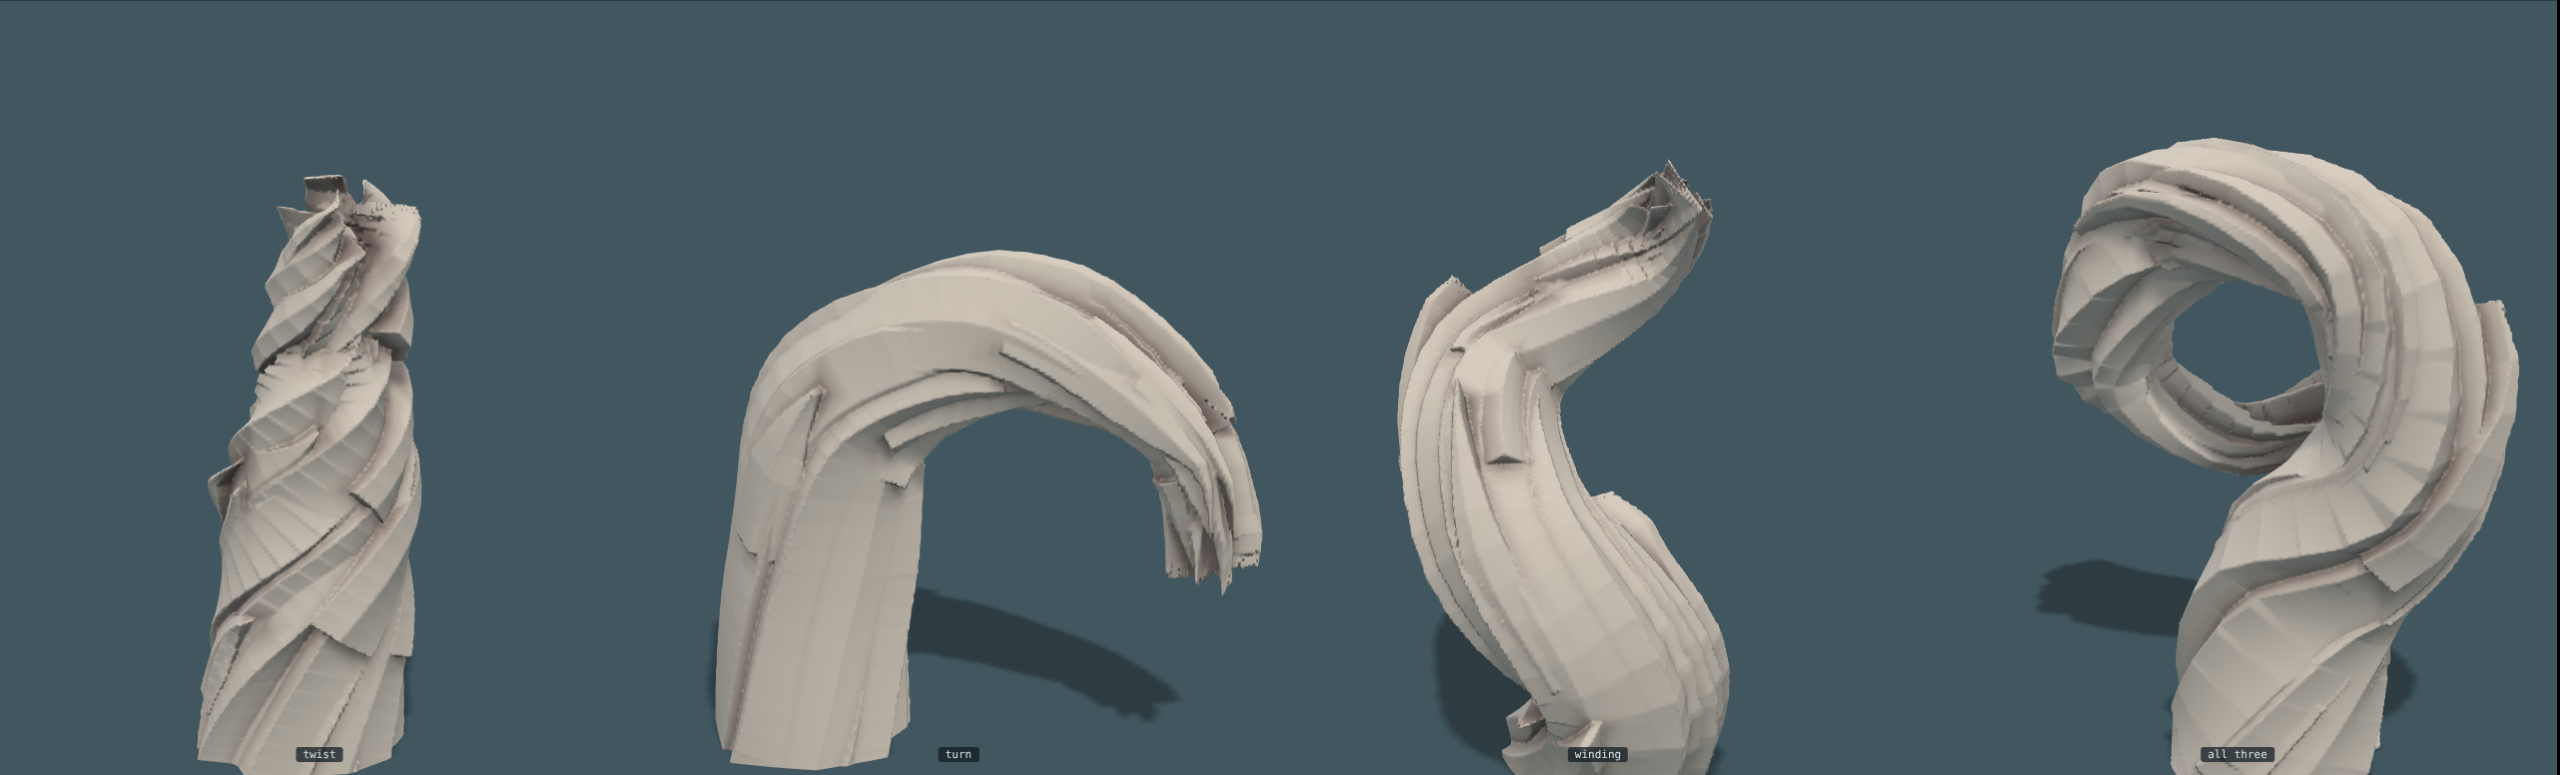
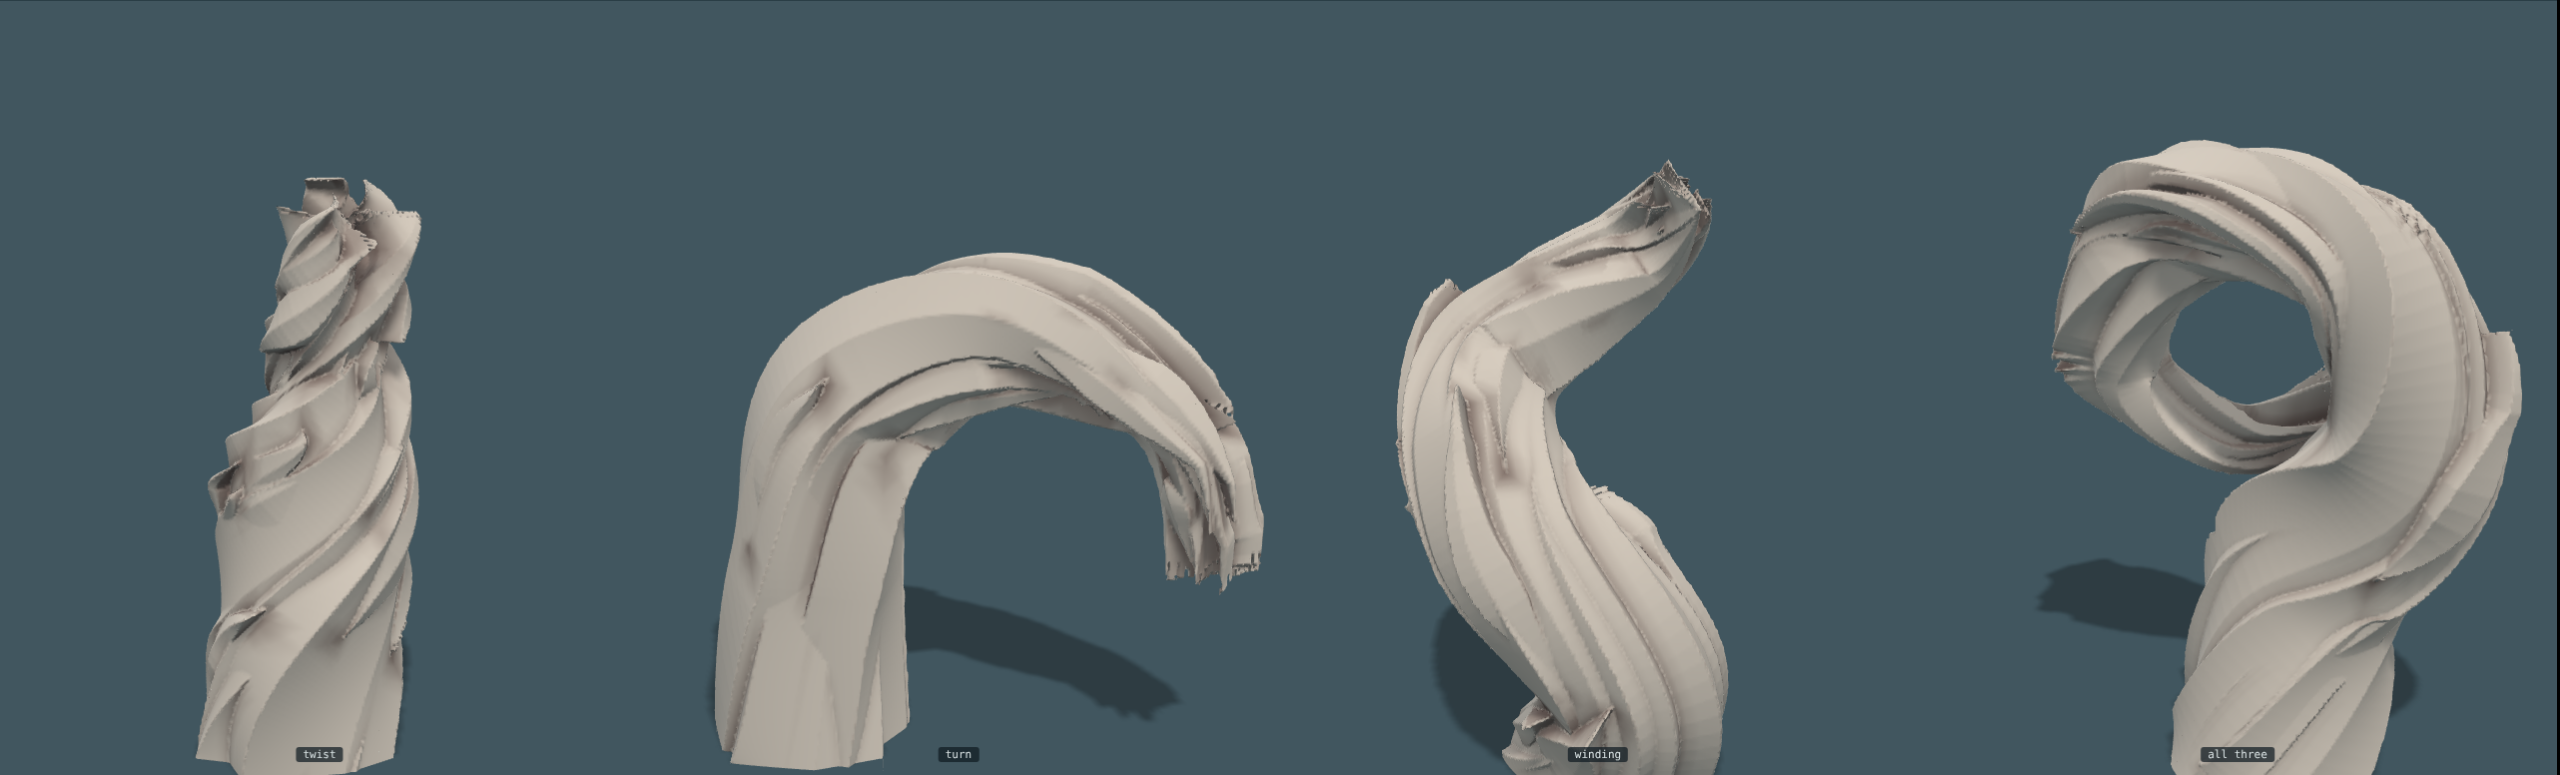
Sketchbook page 5: no visible cross-segments; give over long stretches
Claude-Session: https://claude.ai/code/session_0192rgp75jGkttZXf7hEakip

diff --git a/sketch/page5.js b/sketch/page5.js
@@ -24,10 +24,20 @@
     for (let i = 1; i < n; i++) L.push(L[i - 1] + H(K.C[i][0] - K.C[i - 1][0], K.C[i][1] - K.C[i - 1][1], K.C[i][2] - K.C[i - 1][2]));
     const lo = [9, 9, 9], hi = [-9, -9, -9]; K.C.forEach((c, i) => { const m = K.W[i] + K.Hh[i] + K.deep; for (let k = 0; k < 3; k++) { lo[k] = Math.min(lo[k], c[k] - m); hi[k] = Math.max(hi[k], c[k] + m); } });
     const f = (x, y, z) => {
+      // the nearest stretch of its line: found roughly first, then exactly near there
+      let near = 0, nd = 1e9; for (let i = 0; i < n; i += 6) { const c = K.C[i], q = (x - c[0]) ** 2 + (y - c[1]) ** 2 + (z - c[2]) ** 2; if (q < nd) { nd = q; near = i; } }
       let bd = 1e9, bi = 0, bt = 0;
-      for (let i = 0; i < n - 1; i++) { const a = K.C[i], b = K.C[i + 1], ax = b[0] - a[0], ay = b[1] - a[1], az = b[2] - a[2], t = clamp(((x - a[0]) * ax + (y - a[1]) * ay + (z - a[2]) * az) / (ax * ax + ay * ay + az * az), 0, 1), dx = x - a[0] - ax * t, dy = y - a[1] - ay * t, dz = z - a[2] - az * t, d2 = dx * dx + dy * dy + dz * dz; if (d2 < bd) { bd = d2; bi = i; bt = t; } }
-      const a = K.C[bi], b = K.C[bi + 1], T = unit(mix(Tv[bi], Tv[bi + 1], bt)), side = unit(cross(T, mix(K.O[bi], K.O[bi + 1], bt))), o = cross(side, T), d3 = [x - lerp(a[0], b[0], bt), y - lerp(a[1], b[1], bt), z - lerp(a[2], b[2], bt)];
-      const pre = (bi === 0 && bt === 0) || (bi === n - 2 && bt === 1) ? dot(d3, T) : 0, u = dot(d3, side), v = dot(d3, o), w = lerp(K.W[bi], K.W[bi + 1], bt), h = lerp(K.Hh[bi], K.Hh[bi + 1], bt), s = lerp(L[bi], L[bi + 1], bt) + pre;
+      for (let i = Math.max(0, near - 7); i < Math.min(n - 1, near + 7); i++) { const a = K.C[i], b = K.C[i + 1], ax = b[0] - a[0], ay = b[1] - a[1], az = b[2] - a[2], t = clamp(((x - a[0]) * ax + (y - a[1]) * ay + (z - a[2]) * az) / (ax * ax + ay * ay + az * az), 0, 1), dx = x - a[0] - ax * t, dy = y - a[1] - ay * t, dz = z - a[2] - az * t, d2 = dx * dx + dy * dy + dz * dz; if (d2 < bd) { bd = d2; bi = i; bt = t; } }
+      // then settle on the place along the line where the way to this point is square to the line's own
+      // direction there. Without this the place moves in straight steps while the facing turns smoothly, and
+      // every face comes out ribbed across the grain.
+      let at = bi + bt, T = Tv[0], c = K.C[0];
+      for (let pass = 0; pass < 4; pass++) { const i = clamp(Math.floor(at), 0, n - 2), g = at - i; c = mix(K.C[i], K.C[i + 1], g); T = unit(mix(Tv[i], Tv[i + 1], g)); if (pass < 3) at = clamp(at + ((x - c[0]) * T[0] + (y - c[1]) * T[1] + (z - c[2]) * T[2]) / (L[i + 1] - L[i]), 0, n - 1); }
+      // if that has wandered off (it can, on the inside of a tight bend), go back to the rough answer
+      if ((x - c[0]) ** 2 + (y - c[1]) ** 2 + (z - c[2]) ** 2 > (Math.sqrt(bd) + 0.03) ** 2) { at = bi + bt; c = mix(K.C[bi], K.C[bi + 1], bt); T = unit(mix(Tv[bi], Tv[bi + 1], bt)); }
+      bi = clamp(Math.floor(at), 0, n - 2); bt = at - bi;
+      const side = unit(cross(T, mix(K.O[bi], K.O[bi + 1], bt))), o = cross(side, T), d3 = [x - c[0], y - c[1], z - c[2]];
+      const pre = at <= 0 || at >= n - 1 ? dot(d3, T) : 0, u = dot(d3, side), v = dot(d3, o), w = lerp(K.W[bi], K.W[bi + 1], bt), h = lerp(K.Hh[bi], K.Hh[bi + 1], bt), s = lerp(L[bi], L[bi + 1], bt) + pre;
       const xm = K.ridge * w, yl = h * K.eL, yr = h * K.eR, lx = -(h - yl), ly = xm + w, rx = h - yr, ry = w - xm;
       // inside all of: the two faces of the roof, the two side walls, a floor well below, and the two ends
       return Math.max(((u + w) * lx + (v - yl) * ly) / H(lx, ly), ((u - xm) * rx + (v - h) * ry) / H(rx, ry), -u - w, u - w, -v - K.deep, -s, s - L[n - 1] + K.skew * u);
@@ -37,14 +47,15 @@
   // wood round a guide line that carries a girth. Two layers of shards on a hidden core: wide ones that give
   // the piece its bulk, and narrower, shorter ones lying on them.
   function wood(guide, o) {
-    const M = 72, G = through(guide, M), frames = [], r = rng(o.seed || 1), r2 = rng((o.seed || 1) + 100), give = o.give === undefined ? 1 : o.give; let N = null;
+    const M = 216, G = through(guide, M), frames = [], r = rng(o.seed || 1), r2 = rng((o.seed || 1) + 100), give = o.give === undefined ? 1 : o.give; let N = null;
     for (let i = 0; i <= M; i++) { const T = unit([0, 1, 2].map((k) => G[Math.min(M, i + 1)][k] - G[Math.max(0, i - 1)][k])); N = unit((N || [1, 0, 0.2]).map((v, k, A) => v - T[k] * dot(A, T))); frames.push([T, N, cross(T, N)]); }
     const all = [];
     const lay = (i0, i1, th0, rho, wide, high, lift, point, stiff, P) => {
+      const fine = (q) => Math.min(1, (1 - q) / point, i0 ? q / 0.3 : 1);
       const C = [], O = [], W = [], Hh = [], n = i1 - i0; let run = 0, straight = null, T0 = null;
-      // a band is held at its ends and has give between them: it draws in or spreads a little, drifts a little
-      // to one side, and sinks a little, more than once along a long one. Slight, and never the same twice.
-      const waves = Math.max(1, Math.round(n / 24)), skew = 0.75 + 0.6 * r2(), draw = 0.14 * (r2() * 2 - 1) * give, drift = 0.16 * (r2() * 2 - 1) * give, sink = 0.12 * r2() * give;
+      // a band is held in a few places far apart and has give between them: it draws in or spreads, drifts to
+      // one side, and sinks. Nothing marks where it is held; the give is the only sign of it.
+      const waves = Math.max(1, Math.round(n / 110)), skew = 0.75 + 0.6 * r2(), sign = () => (r2() < 0.5 ? -1 : 1) * (0.5 + 0.5 * r2()), draw = 0.3 * sign() * give, drift = 0.32 * sign() * give, sink = 0.28 * r2() * give;
       const bow = (q) => Math.sin(PI * waves * Math.pow(q, skew)) * Math.sin(PI * q) ** 0.5;
       for (let i = i0; i <= i1; i += 2) {
         const [Tn, Nn, Bn] = frames[i], R = G[i][3], q = (i - i0) / n, th = th0 + TAU * o.turns * Math.pow(i / M, o.ramp || 1), out = [0, 1, 2].map((k) => Nn[k] * Math.cos(th) + Bn[k] * Math.sin(th));
@@ -53,7 +64,7 @@
         // too stiff for its line: part way between following it and running straight on from where it began
         // and never more than about half a girth off it
         const off = [0, 1, 2].map((k) => straight[k] + T0[k] * run - on[k]), far = H(off[0], off[1], off[2]) || 1e-9, stay = Math.min(stiff * q * q, 0.55 * R / far), p = [0, 1, 2].map((k) => on[k] + off[k] * stay);
-        C.push(p); O.push(out); W.push(Math.max(0.004, R * wide * (1 + draw * b) * (point ? Math.min(1, (1 - q) / point) : 1))); Hh.push(R * high * (1 - sink * Math.abs(b)) * (point ? 0.5 + 0.5 * Math.min(1, (1 - q) / point) : 1));
+        C.push(p); O.push(out); W.push(Math.max(0.004, R * wide * (1 + draw * b) * fine(q))); Hh.push(R * high * (1 - sink * Math.abs(b)) * (0.5 + 0.5 * fine(q)));
       }
       if (C.length > 1) all.push(shard(Object.assign({ C, O, W, Hh, deep: G[i0][3] * 0.5 }, P)));
     };

diff --git a/LOG.md b/LOG.md
@@ -735,3 +735,27 @@ the same twice. Its ends stay where they were. `sketch/page5.png`,
 Also meshed finer (0.0085 from 0.012), which takes the saw teeth off most
 shard edges; faint flats remain across wide faces where a shard's line is
 made of straight steps.
+
+The give called barely visible, with a correction: wood has no
+cross-segments that can be seen at all. Bands sag and contract, "but
+that's the only sign of their existence."
+
+Two kinds of visible cross-segment were in the page and are removed:
+
+- Faint flats, then fine ribbing, across every face. Cause: a point's
+  place along a shard was found in straight steps while the shard's facing
+  turned smoothly, and the mismatch repeated at every step. Making the
+  steps three times finer only made the ribs finer. Fixed by settling on
+  the place where the way to the point is square to the shard's own
+  direction there, with a fallback for the insides of tight bends, where
+  that search can wander and leave crumbs in the air.
+- Square starts. Each narrow shard ended in a point but began with a face
+  cut across the grain. Both ends are points now.
+
+The give itself now works over long stretches (once along a short shard,
+twice along one that runs the whole piece) and is about twice as strong:
+width by up to 30%, drift by up to 32% of width, thickness by up to 28%.
+`sketch/page5.png`, `sketch/page5-close.png`.
+
+Not there: thin tips are still jagged at the mesh's size; no hollows or
+knots.
